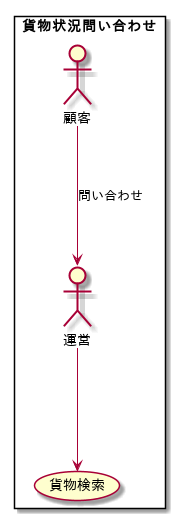
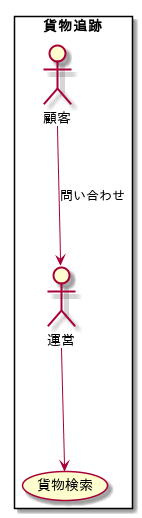
chore: 貨物問い合わせ -> 貨物追跡に修正

Changed region(s): [[0.0563, 0.0309, 0.9859, 1.0]]

diff --git a/season2-DDD/04th.md b/season2-DDD/04th.md
@@ -22,7 +22,7 @@
 ![usecase1](cargo-system/docs/usecase.png)
 #### 荷役
 ![usecase2](cargo-system/docs/usecase_001.png)
-#### 問い合わせ
+#### 追跡
 ![usecase3](cargo-system/docs/usecase_002.png)
 
 
